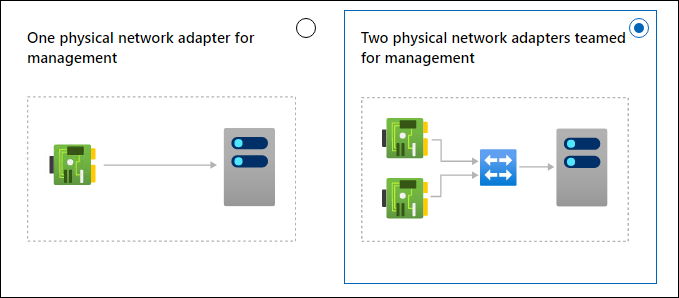
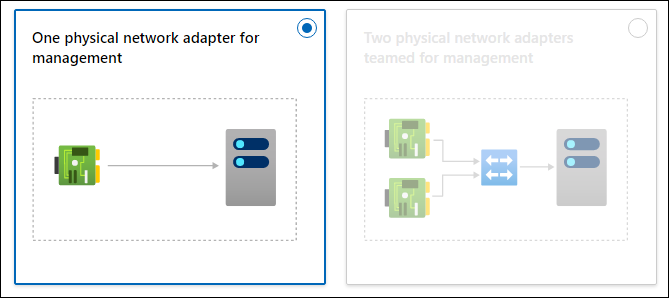
Updated images

diff --git a/steps/2_DeployAzSHCI.md b/steps/2_DeployAzSHCI.md
@@ -88,10 +88,10 @@ The first key step with setting up the networking with Windows Admin Center, is 
 As it stands, this is the way that the Windows Admin Center approaches the network configuration, however, if you were not using the Windows Admin Center, through PowerShell, there are a number of different ways to configure the network to meet your needs. We will work through the Windows Admin Center approach in this guide.
 
 #### Network Setup Overview ####
-Each of your Azure Stack HCI 20H2 nodes should have 6 NICs.  For this simple evaluation, you'll dedicate the NICs in the following way:
+Each of your Azure Stack HCI 20H2 nodes should have 4 NICs.  For this simple evaluation, you'll dedicate the NICs in the following way:
 
-* 2 NICs will be dedicated to management and teamed. This team will reside on the 192.168.0.0/24 subnet. No virtual switch will be attached to this NIC.
-* 2 NICs will be teamed and dedicated to VM traffic. A virtual switch will be attached to this team and the Azure Stack HCI 20H2 host will no longer use these NICs for it's own traffic.
+* 1 NIC will be dedicated to management. This NIC will reside on the 192.168.0.0/24 subnet. No virtual switch will be attached to this NIC.
+* 1 NICs will be dedicated to VM traffic. A virtual switch will be attached to this NIC and the Azure Stack HCI 20H2 host will no longer use this NIC for it's own traffic.
 * 2 NICs will be dedicated to storage traffic. They will reside on 2 separate subnets, 10.10.11.0/24 and 10.10.12.0/24. No virtual switches will be attached to these NICs.
 
 Again, this is just one **example** network configuration for the simple purpose of evaluation.
@@ -102,7 +102,7 @@ Again, this is just one **example** network configuration for the simple purpose
 
 2. Then, for each node, **select the 2 highlighted NICs** that will be dedicated for management.  The reason only two NICs are highlighted, is because these are the only NICs that have an IP address on the same network as the WAC instance. Once you've finished your selections, scroll to the bottom, then click **Apply and test**. This will take a few moments.
 
-![Select management adapters in the Create Cluster wizard](/media/wac_teamedmgmt_ga.png "Select management adapters in the Create Cluster wizard")
+![Select management adapters in the Create Cluster wizard](/media/wac_singlemgmt_ga.png "Select management adapters in the Create Cluster wizard")
 
 3. Windows Admin Center will then apply the configuration to your NICs. When complete and successful, click **Next**
 4. On the **Virtual Switch** page, you have a number of options
@@ -122,28 +122,30 @@ Again, this is just one **example** network configuration for the simple purpose
 
 ![Error message when configuring RDMA in a nested environment](/media/wac_enable_rdma.png "Error message when configuring RDMA in a nested environment")
 
-7. On the **Define networks** page, this is where you can define the specific networks, separate subnets, and optionally apply VLANs.  In this **nested environment**, we now have 2 NICs remaining.  Configure your remaining NICs as follows, by clicking on a field in the table and entering the appropriate information.
+7. On the **Define networks** page, this is where you can define the specific networks, separate subnets, and optionally apply VLANs.  In this **nested environment**, we now have 3 NICs remaining.  Configure your remaining NICs as follows, by clicking on a field in the table and entering the appropriate information.
 
-**NOTE** - we have a simple flat network in this configuration. Some of the NICs have been claimed by the Management NIC team, The remaining NICs will be show in the table in WAC, so ensure they align with the information below. WAC won't allow you to proceed unless everything aligns correctly.
+**NOTE** - we have a simple flat network in this configuration. One of the NICs have been claimed by the Management NIC, The remaining NICs will be show in the table in WAC, so ensure they align with the information below. WAC won't allow you to proceed unless everything aligns correctly.
 
 | Node | Name | IP Address | Subnet Mask
 | :-- | :-- | :-- | :-- |
 | AZSHCINODE01 | Storage 1 | 10.10.11.1 | 24
 | AZSHCINODE01 | Storage 2 | 10.10.12.1 | 24
-| AZSHCINODE01 | VM1 | 10.10.13.1 | 24
-| AZSHCINODE01 | VM2 | 10.10.14.1 | 24
+| AZSHCINODE01 | VM | 10.10.13.1 | 24
 | AZSHCINODE02 | Storage 1 | 10.10.11.2 | 24
 | AZSHCINODE02 | Storage 2 | 10.10.12.2 | 24
-| AZSHCINODE02 | VM1 | 10.10.13.2 | 24
-| AZSHCINODE02 | VM2 | 10.10.14.2 | 24
+| AZSHCINODE02 | VM | 10.10.13.2 | 24
 
 When you click **Apply and test**, Windows Admin Center validates network connectivity between the adapters in the same VLAN and subnet, which may take a few moments.  Once complete, your configuration should look similar to this:
 
 ![Define networks in the Create Cluster wizard](/media/wac_define_network_ga.png "Define networks in the Create Cluster wizard")
 
-1. Once the networks have been verified, you can optionally review the networking test report, and once complete, click **Next**
+**NOTE**, You *may* be prompted with a **Credential Security Service Provider (CredSSP)** box - read the information, then click **Yes**
 
-2. Once changes have been successfully applied, click **Next: Clustering**
+![Validate cluster in the Create Cluster wizard](/media/wac_credssp_ga.png "Validate cluster in the Create Cluster wizard")
+
+8. Once the networks have been verified, you can optionally review the networking test report, and once complete, click **Next**
+
+9. Once changes have been successfully applied, click **Next: Clustering**
 
 ### Clustering ###
 With the network configured for the workshop environment, it's time to construct the local cluster.
